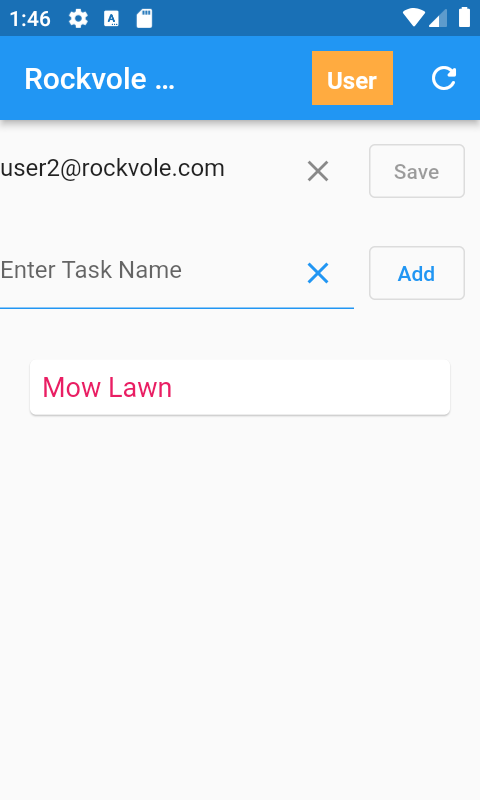
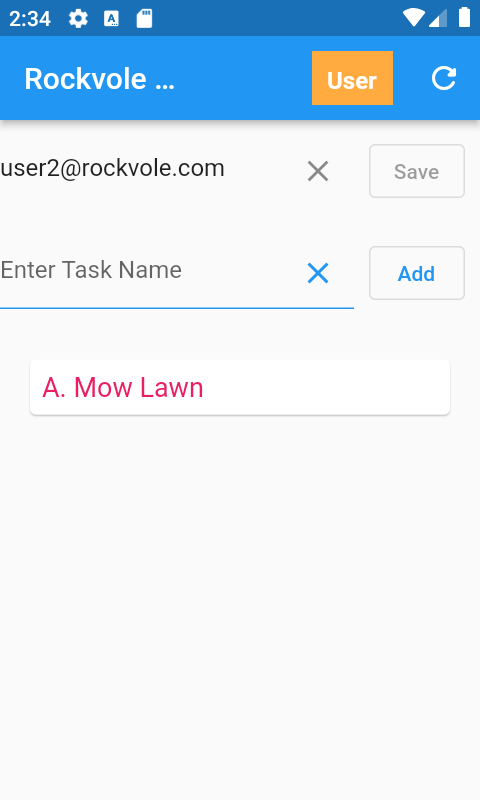
Redo user2 documentation to use one md document

Changed region(s): [[0.0938, 0.4688, 0.4375, 0.5], [0.0, 0.0, 0.125, 0.0312]]

diff --git a/README.md b/README.md
@@ -5,7 +5,7 @@ The purpose of this app is to show the basics of how you may use the *rockvole_d
 
 I will divide the explanation per device below. You can follow the flow on each device - and follow the links to switch between devices where relevant.
 
-## Phone Example
+## User 1 Phone Example
 
 [Set-Up Write Server](./ancillary/documentation/setup-write-server.md)
 
@@ -13,13 +13,15 @@ I will divide the explanation per device below. You can follow the flow on each 
 
 [Add items to phone](./ancillary/documentation/add-item-phone.md)
 
-[Create Admin Phone](./ancillary/documentation/create-admin-phone.md)
+## Admin Phone Example
 
-[Create User 2](./ancillary/documentation/create-user-2.md)
+[Create Admin Phone](./ancillary/documentation/create-admin-phone.md)
 
 [Admin Approve / Reject](./ancillary/documentation/admin-approve-reject.md)
 
-[Show Item on User 2](./ancillary/documentation/show-item-user-2.md)
+## User 2 Phone Example
+
+[Create User 2](./ancillary/documentation/create-user-2.md)
 
 <hr/>
 

diff --git a/ancillary/documentation/create-user-2.md b/ancillary/documentation/create-user-2.md
@@ -2,13 +2,14 @@
 
 ### Add email address in app and press refresh
 
-<img src="images/user2_add_email.png" width="200" />
-<div align="center">There are no items to view</div>
+<img src="images/user2_show_new_item.png" width="200" />
+<div align="center"></div>
 <hr/>
 
 ```roomsql
 select * from task;
+1|A. Mow Lawn|0
 ```
-<div align="center">Sqllite : No rows returned</div>
+<div align="center">Sqllite : Task Table</div>
 
-<i>You can see that the items not yet approved have not been sent to the User 2 phone.</i>
+<i>You can see that only the approved item 'Mow Lawn' has been sent to the User 2 phone.</i>
